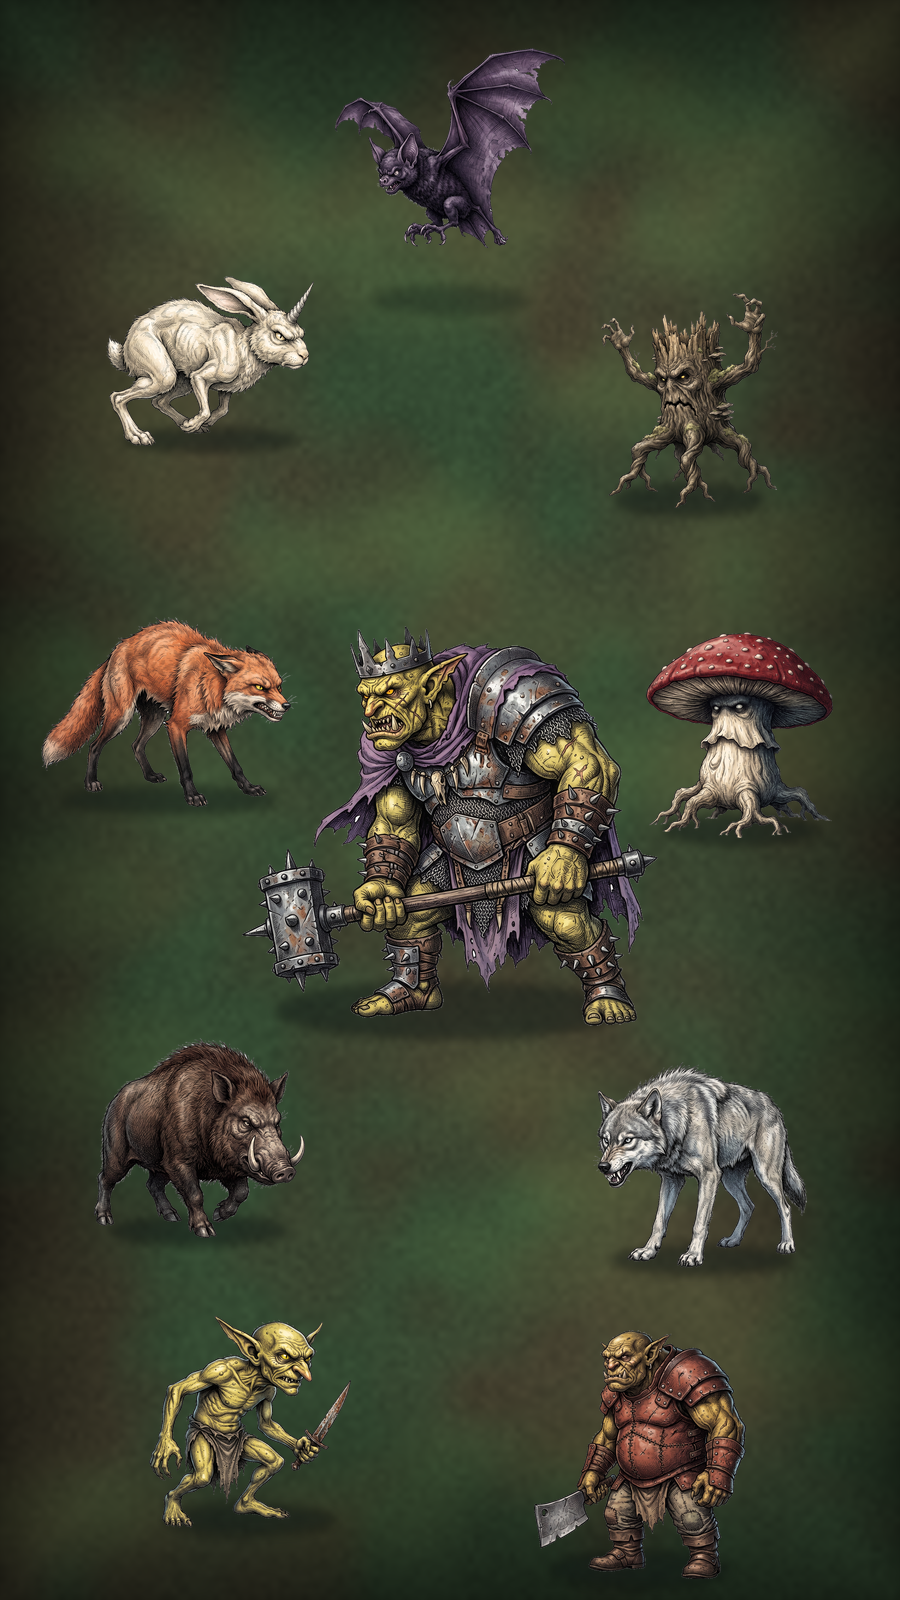
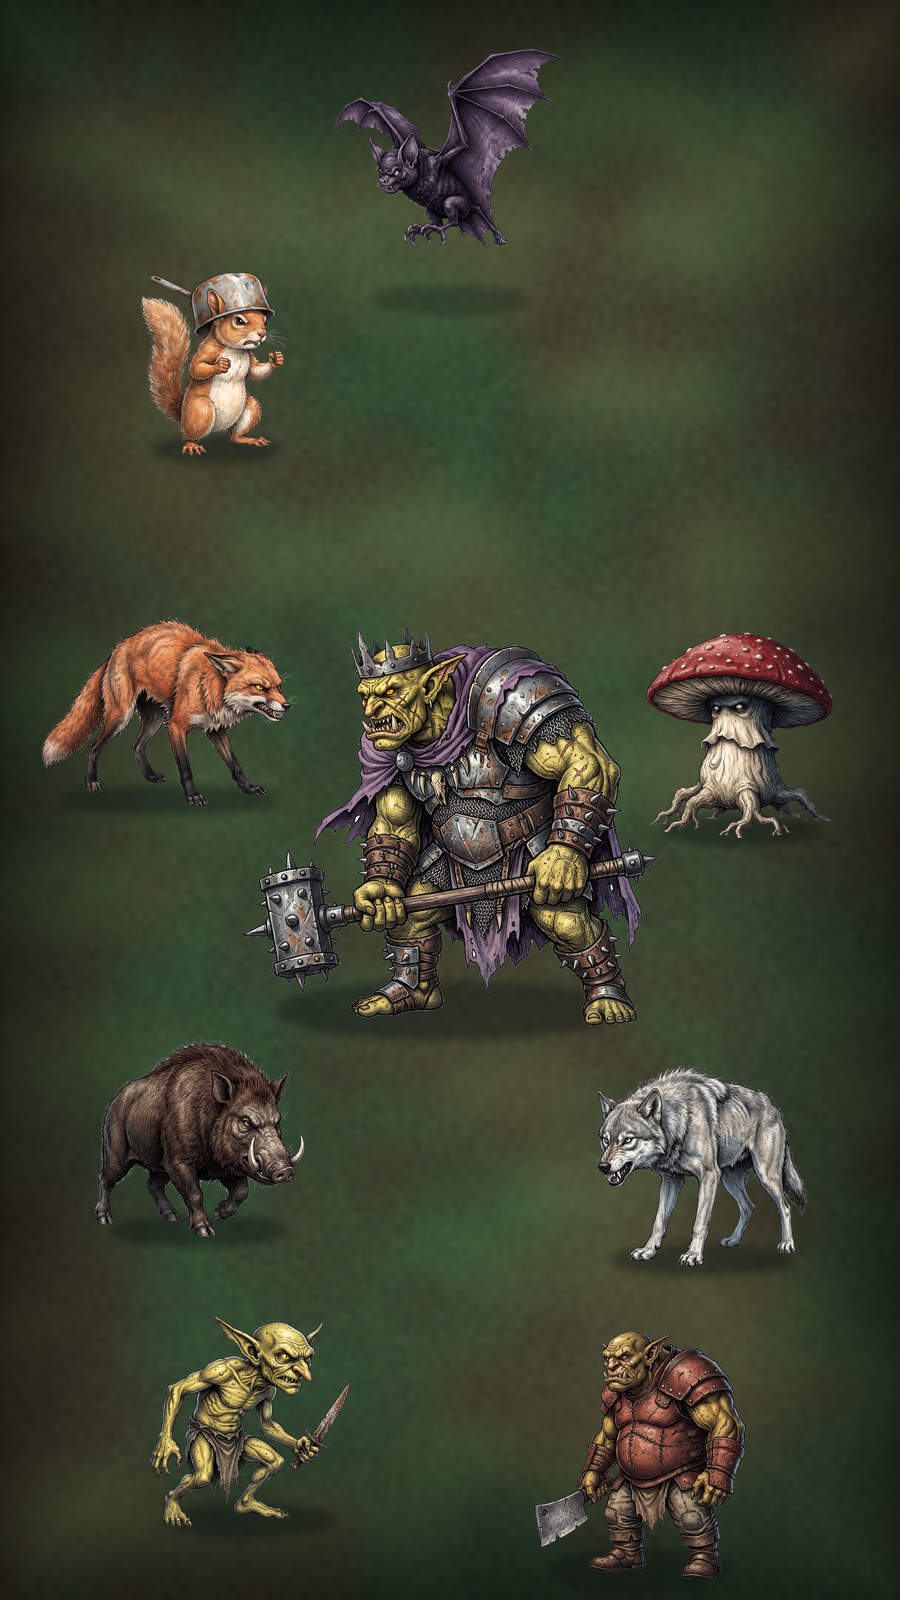
1-1 냄비 쓴 다람쥐(마스코트) 시안, 1-2 사마귀로 변경, 도감·가이드라인 반영
Claude-Session: https://claude.ai/code/session_019ctizXkAJK8e2QXDcDEkS2

Changed region(s): [[0.1244, 0.1562, 0.3422, 0.2812], [0.6844, 0.1875, 0.8711, 0.3125], [0.6844, 0.2812, 0.7156, 0.3125]]

diff --git a/잊혀진 기사 키우기 세계관/설정집.html b/잊혀진 기사 키우기 세계관/설정집.html
@@ -143,7 +143,7 @@ dl { margin: 0; }
     <ul>
       <li><b>스테이지.</b> 한 스테이지에는 한 종류의 몬스터가 여러 마리 나온다. 쓰러뜨리면 사라지고, 조금 뒤 안개에서 새로 생긴다. 정해진 수를 잡으면 다음 스테이지가 열린다.</li>
       <li><b>보스.</b> 열 번째 스테이지의 안개 주인을 쓰러뜨려야 다음 구역으로 간다. 한 번 열린 스테이지는 자유롭게 오간다.</li>
-      <li><b>대표 드랍템.</b> 그 몬스터가 원래 지닌 무기나 몸의 일부다. 오우거의 몽둥이, 뿔토끼의 뿔, 고블린의 단검. 이야기와 이어지는 물건은 보스를 쓰러뜨린 자리에서 따로 나온다. 1화에서는 고블린 왕의 잡동사니 더미에서 루가 어릴 때 쓰던 밥그릇이 나온다.</li>
+      <li><b>대표 드랍템.</b> 그 몬스터가 원래 지닌 무기나 몸의 일부다. 오우거의 몽둥이, 다람쥐의 냄비, 고블린의 단검. 이야기와 이어지는 물건은 보스를 쓰러뜨린 자리에서 따로 나온다. 1화에서는 고블린 왕의 잡동사니 더미에서 루가 어릴 때 쓰던 밥그릇이 나온다.</li>
       <li><b>도감.</b> 몬스터마다 무엇이 뭉친 것인지 한 줄이 적힌다. 떨어진 물건 가운데 몇 개는 마을 사람에게 돌려줄 수 있고, 돌려주면 그 사람의 짧은 이야기가 열린다.</li>
     </ul>
     <p class="dim">구역 열 개, 구역당 몬스터 아홉 종과 보스 한 종은 전에 정한 명단을 그대로 쓴다. 몬스터별 한 줄은 이 규칙에 맞춰 새로 쓴다.</p>

diff --git a/가이드라인.md b/가이드라인.md
@@ -63,7 +63,7 @@
 - 몬스터는 죽인다. 죽으면 사라지고 골드와 아이템을 떨어뜨린다. 조금 뒤 안개에서 다시 생긴다.
 - 보스를 잡아야 다음 구역이 열린다. 한 번 열린 스테이지는 자유롭게 오간다.
 - 몬스터는 사람이 아니다. 안개가 잊힌 것들을 뭉쳐 빚은 것이다. 떨어지는 아이템은 그 안에 뭉쳐 있던 잊힌 물건이다.
-- **대표 드랍템은 그 몬스터가 원래 지닌 것이다.** 오우거의 몽둥이, 뿔토끼의 뿔, 고블린의 단검, 멧돼지의 엄니처럼 그 몬스터에게 당연히 있는 무기나 몸의 일부를 쓴다.
+- **대표 드랍템은 그 몬스터가 원래 지닌 것이다.** 오우거의 몽둥이, 다람쥐의 냄비, 고블린의 단검, 멧돼지의 엄니처럼 그 몬스터에게 당연히 있는 무기나 몸의 일부를 쓴다.
 - **드랍템 때문에 생김새를 이상하게 만들지 않는다.** 어울리지 않는 물건을 억지로 붙이지 않는다. 사마귀 등에 낫을 꽂는 식은 안 된다.
 - 잊힌 물건(이야기와 이어지는 물건)은 드물게 따로 떨어진다. 몬스터 그림에는 넣지 않는다.
 - 보스도 마찬가지로 자연스러운 것을 지닌다. 그 화의 이야기 열쇠가 되는 물건은 보스를 쓰러뜨린 자리에서 따로 나온다.
@@ -82,6 +82,7 @@
 - 실제로 있을 법하게 그린다. 뼈대, 근육, 무게, 살갗의 질감이 맞아야 한다.
 - 가는 펜 선과 빗금으로 형태와 명암을 잡는다. 그림체의 기준은 승인된 오우거 한 장(`art/기준/오우거.png`)이다.
 - 몬스터는 무섭게 그린다. 귀엽게 그리지 않는다. 큰 눈, 둥근 몸, 웃는 얼굴은 쓰지 않는다.
+- **예외는 1-1의 냄비 쓴 다람쥐 하나다.** 약한데 무서운 척하는, 조금 귀여운 놈으로 이 게임의 얼굴(마스코트)이다. 그림체는 다른 몬스터와 같은 사실적인 펜화로 그린다. 귀여운 몬스터를 더 늘리지 않는다.
 - **무섭게 그리되 징그럽게 그리지 않는다.** 공포물의 괴물이 아니라 게임의 몬스터다. 벌레, 미끈거리는 살, 흘러내리는 진액, 지나치게 많은 이빨은 쓰지 않는다. 털, 나무결, 가죽, 쇠처럼 마른 질감과 얼굴 표정으로 무서움을 낸다. 몬스터 종류를 고를 때도 이 기준으로 고른다.
 - **보스는 그 구역의 어떤 일반 몬스터보다 크고 강해 보여야 한다.** 늙거나 살찐 모습, 앉은 자세로 그리지 않는다. 나란히 놓았을 때 누가 우두머리인지 바로 보여야 한다.
 - 피와 잔인한 묘사는 넣지 않는다. 무서움은 생김새와 무게에서 나온다.
@@ -126,7 +127,7 @@
 - **구역끼리는 달라도 된다.** 2구역과 7구역은 색도 분위기도 달라도 좋다.
 - 기준 오우거는 선과 채색 방식만 맞추는 데 쓴다. 색과 분위기는 구역마다 다르게 준다.
 - 다만 위의 "기본"과 "한 스푼"은 모든 구역에 똑같이 적용한다. 어느 구역이든 사실적이고, 무섭고, 귀엽지 않다.
-- 승인된 그림은 `art/monsters/`에 스테이지 번호를 붙여 저장한다. 예: `1-01-뿔토끼.png`.
+- 승인된 그림은 `art/monsters/`에 스테이지 번호를 붙여 저장한다. 예: `1-01-냄비다람쥐.png`.
 - 승인된 그림만 `art/monsters/`에 둔다. 시험으로 뽑은 것은 `art/시안/`에 둔다.
 - 마음에 안 드는 그림은 주문 문구를 바꾸지 않고 다시 뽑는다. 문구를 바꿔야 하면 이 문서부터 고친다.
 

diff --git a/잊혀진 기사 키우기 세계관/몬스터 도감.md b/잊혀진 기사 키우기 세계관/몬스터 도감.md
@@ -12,10 +12,10 @@
 ### 몬스터
 | 스테이지 | 몬스터 | 어디서 만나나 | 사연 (도감 글) | 대표 드랍템 | 주된 색 |
 |---|---|---|---|---|---|
-| 1-1 | 뿔토끼 | 숲 들머리 풀밭 | 아이가 풀어 주고 잊은 토끼가 뭉친 것. 버려졌다는 것만 기억해서 다가오는 것은 뿔로 들이받는다. | 토끼 뿔 | 크림색 털 |
-| 1-2 | 그루터기 정령 | 베어 낸 나무 터 | 베어 놓고 잊은 나무의 그루터기가 뭉친 것. 뿌리로 걸으며 길을 막는다. | 이끼 낀 나무껍질 | 이끼 낀 초록 |
+| 1-1 | 냄비 쓴 다람쥐 | 숲 들머리 풀밭 | 찌그러진 냄비를 투구처럼 쓰고 주먹을 쥐고 덤빈다. 표정만은 숲에서 가장 사납다. 가장 약한 첫 적이자 이 게임의 얼굴. | 찌그러진 냄비 | 붉은 갈색 털, 녹슨 냄비 |
+| 1-2 | 거대 사마귀 | 버려진 밭두렁 | 풀숲에 서서 기다리다 낫발로 내리친다. | 사마귀 낫발 | 밝은 풀색 |
 | 1-3 | 박쥐 | 숲길 초입의 고목 | 아무도 올라가지 않게 된 다락의 어둠이 뭉친 것. 빛을 싫어해 등불을 든 기사부터 덮친다. | 박쥐 날개 | 검보라 |
-| 1-4 | 여우 | 버려진 밭두렁 | 닭장을 지키다 잊힌 덫에서 나왔다. 마르고 날래며, 늑대 무리의 길잡이 노릇을 한다. | 여우 꼬리 | 주황 |
+| 1-4 | 여우 | 숲길 가장자리 | 마르고 날래다. 늑대 무리보다 먼저 나타나 길을 살핀다. | 여우 꼬리 | 주황 |
 | 1-5 | 독버섯 | 그늘진 나무 밑 | 숲에 두고 와서 썩어 버린 도시락에서 자랐다. 가까이 오면 포자를 뿜는다. | 독버섯 갓 | 붉은 갓 |
 | 1-6 | 멧돼지 | 숲속 빈터 | 아무도 돌보지 않는 밭이 뭉친 것. 제 땅에 들어온 것은 무엇이든 들이받는다. | 굽은 엄니 | 짙은 밤색 |
 | 1-7 | 늑대 | 깊은 숲 | 주인을 잃은 사냥개의 기다림이 뭉친 것. 기다리다 굶주려 사나워졌다. | 늑대 송곳니 | 잿빛 |
